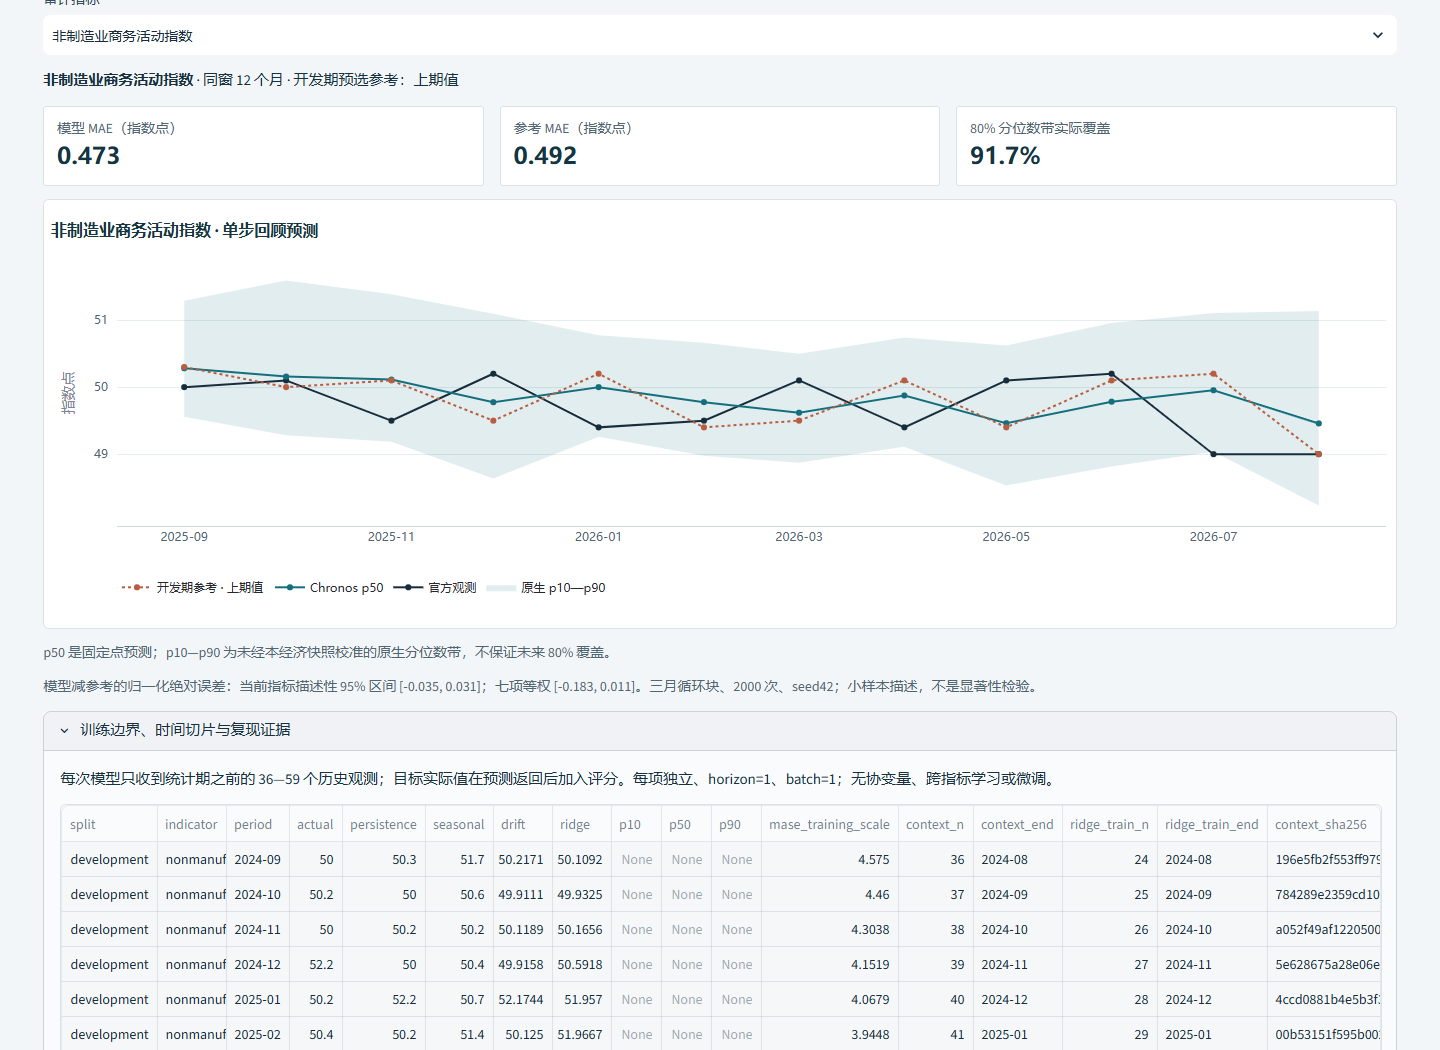
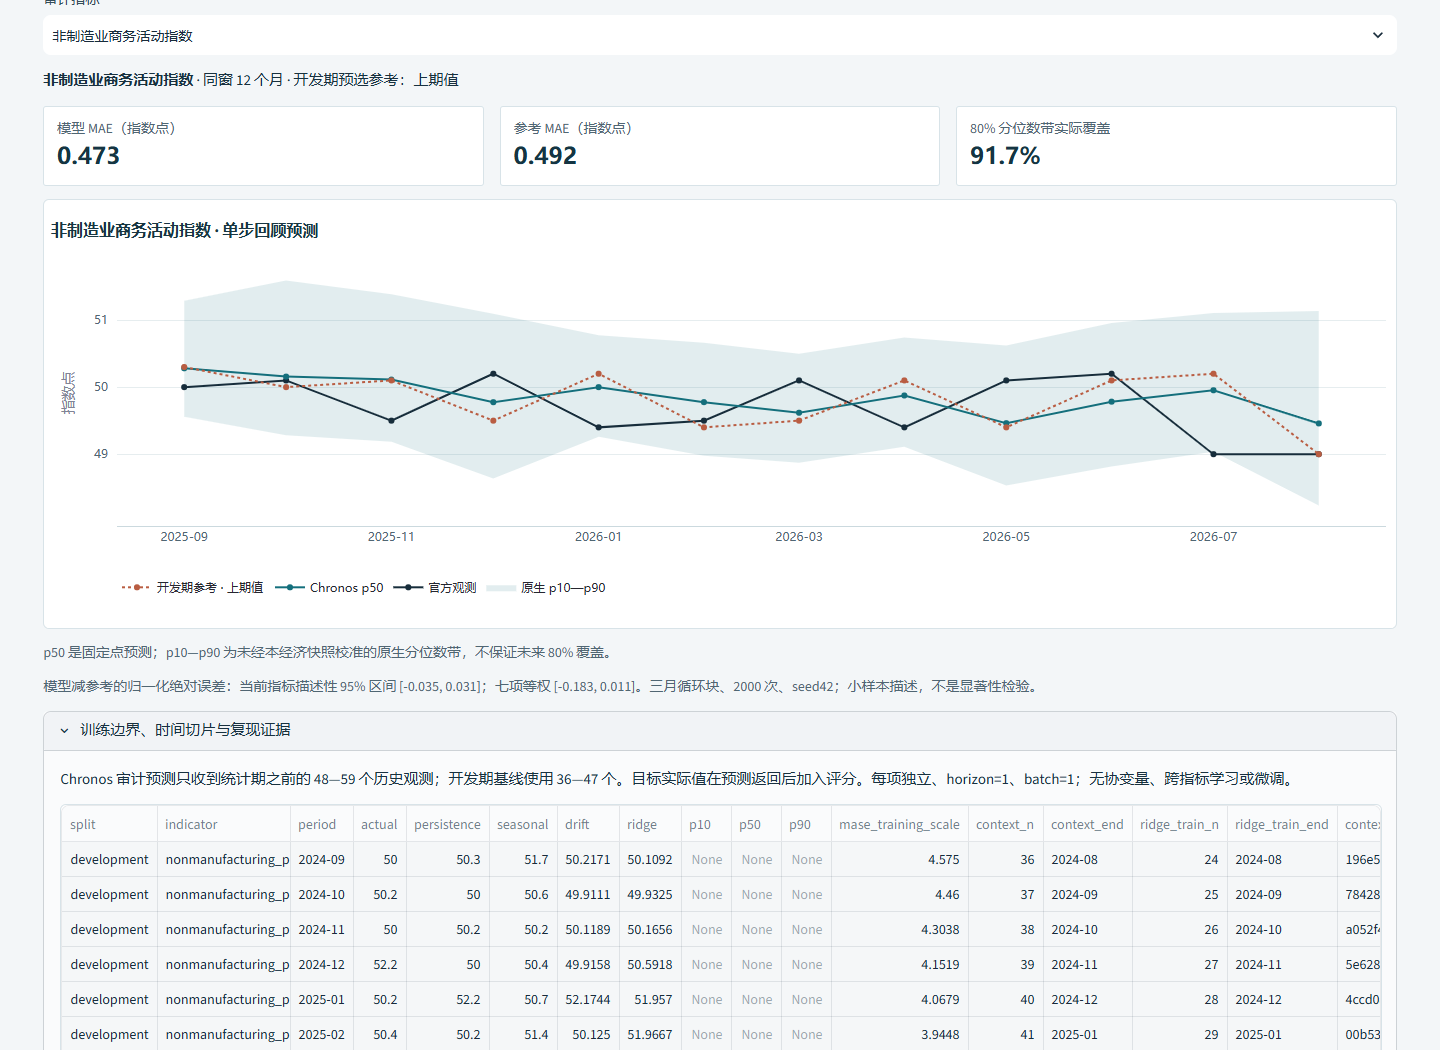
Clarify model audit and baseline history boundaries

Changed region(s): [[0.0312, 0.7314, 0.9688, 1.0], [0.5938, 0.8838, 0.75, 1.0]]

diff --git a/src/guanlan/ui/chronos_research.py b/src/guanlan/ui/chronos_research.py
@@ -71,7 +71,7 @@ def render(store):
     macro_lo, macro_hi = report['paired_block_descriptive_95']['macro_vs_development_reference']
     st.caption(f'模型减参考的归一化绝对误差：当前指标描述性 95% 区间 [{lo:.3f}, {hi:.3f}]；七项等权 [{macro_lo:.3f}, {macro_hi:.3f}]。三月循环块、2000 次、seed42；小样本描述，不是显著性检验。')
     with st.expander('训练边界、时间切片与复现证据'):
-        st.write('每次模型只收到统计期之前的 36—59 个历史观测；目标实际值在预测返回后加入评分。每项独立、horizon=1、batch=1；无协变量、跨指标学习或微调。')
+        st.write('Chronos 审计预测只收到统计期之前的 48—59 个历史观测；开发期基线使用 36—47 个。目标实际值在预测返回后加入评分。每项独立、horizon=1、batch=1；无协变量、跨指标学习或微调。')
         st.dataframe(pd.DataFrame(csv_rows(report, key=key)), hide_index=True, width='stretch')
         st.dataframe(pd.DataFrame([{'切片': label, '方法': METHODS[method], **metric}
                                    for label, metrics in report['time_slices'][key].items() for method, metric in metrics.items()]), hide_index=True, width='stretch')

diff --git a/scripts/browser_chronos_research.py b/scripts/browser_chronos_research.py
@@ -8,7 +8,7 @@ from playwright.sync_api import sync_playwright, expect
 from guanlan.chronos_report import KEYS, LABELS, load_packaged_audit, strict_json, verify_report
 
 ROOT = Path(__file__).resolve().parents[1]
-OUT = ROOT / 'reports/chronos-browser-final'
+OUT = ROOT / 'reports/chronos-browser-context-final'
 
 
 def main():
@@ -71,6 +71,7 @@ def main():
             results.append({'id': 'indicator-' + key, 'status': 'passed', 'overflow_px': healthy(page)})
         page.get_by_text('训练边界、时间切片与复现证据', exact=True).click()
         healthy(page)
+        expect(page.get_by_text('Chronos 审计预测只收到统计期之前的 48—59 个历史观测；开发期基线使用 36—47 个。', exact=False)).to_be_visible()
         page.screenshot(path=str(OUT / 'chronos-boundaries-desktop.png'), full_page=True)
         results.append({'id': 'boundary-and-year-slice-evidence', 'status': 'passed'})
         mobile = browser.new_page(viewport={'width': 390, 'height': 900}); attach(mobile)

diff --git a/docs/CHRONOS_SYNTH_ACCEPTANCE.md b/docs/CHRONOS_SYNTH_ACCEPTANCE.md
@@ -99,7 +99,7 @@ Copy-Item research/chronos/chronos_cpu_backend.py, research/chronos/chronos_owne
 
 ## 工程验证记录
 
-本地完整Python回归 **345 passed、10 subtests passed，296.87秒**。最后离线HTML表格可读性、历史边界文案与异常重试验收补充后，相关 **17 tests passed，19.37秒**；Ruff与23文件mypy再次通过。Node前端测试及语法检查、pip check、安全扫描也通过；Bandit扫描src/scripts/research未发现中高危，应用91项可查询依赖和模型44项锁当次查询均无已知漏洞。本地guanlan项目未发布到PyPI，注册库查询明确跳过，项目源码另由扫描和测试检查；不称全部代码无漏洞。
+本地完整Python回归 **345 passed、10 subtests passed，296.87秒**。最后离线HTML表格可读性、历史边界文案与异常重试验收补充后，相关 **17 tests passed，19.37秒**；随后将UI文案精确区分为Chronos审计48—59月/开发期基线36—47月，**2项UI测试再次通过，11.86秒**，12项Edge检查重做通过且新增明确文案断言；Ruff与23文件mypy再次通过。Node前端测试及语法检查、pip check、安全扫描也通过；Bandit扫描src/scripts/research未发现中高危，应用91项可查询依赖和模型44项锁当次查询均无已知漏洞。本地guanlan项目未发布到PyPI，注册库查询明确跳过，项目源码另由扫描和测试检查；不称全部代码无漏洞。
 
 实际Microsoft Edge执行12项验收：七指标控件切换与URL状态、三种下载、重复下载、训练边界/年份展开、1440px桌面/390px移动曲线与下载、无脚本离线HTML。页面异常、付费接口请求及整体横向溢出均为0；离线数据表格使用局部横向滚动，数字保持完整。最初脚本误读input控件、长revision文本溢出、旧预览导出器未重载的失败与原截图保留，最终截图逐一目视检查，来源见 `docs/validation/chronos-browser-acceptance.json`。
 
